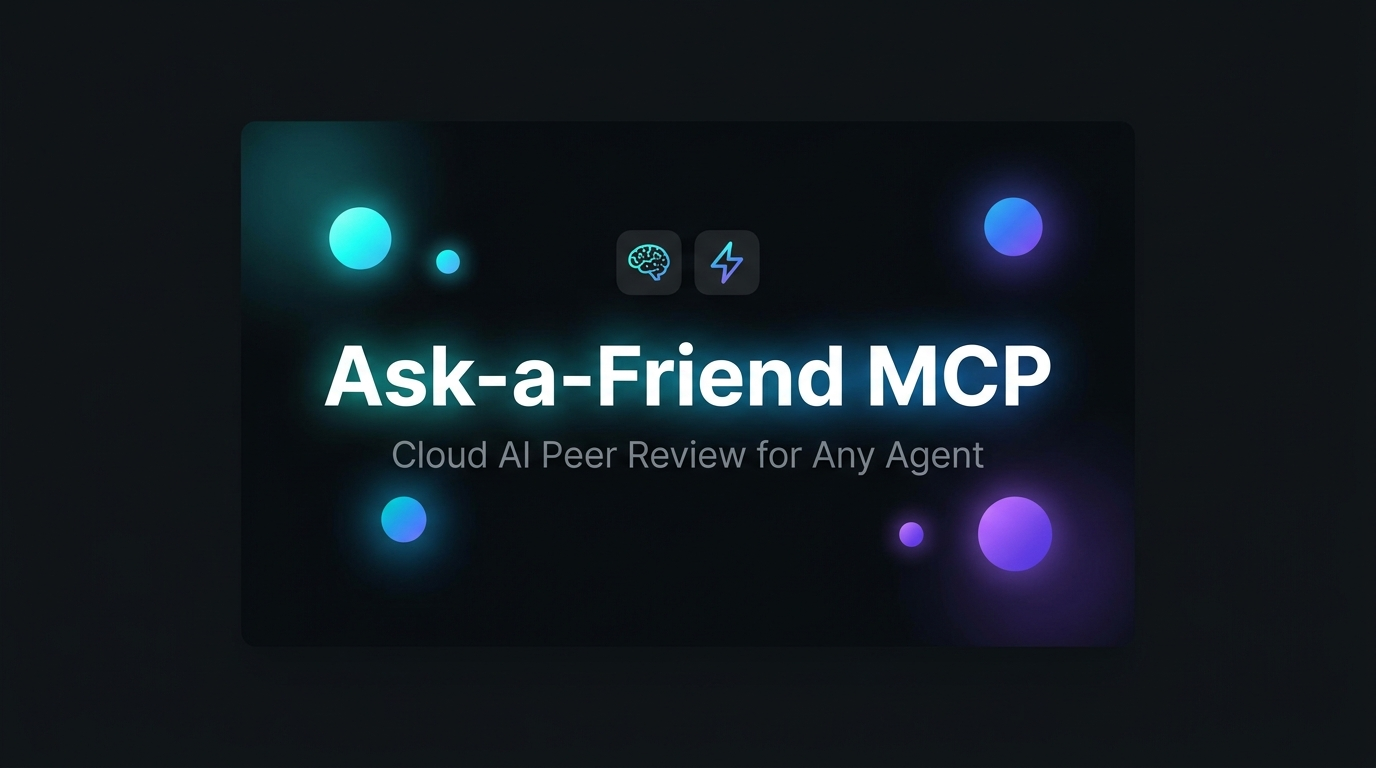
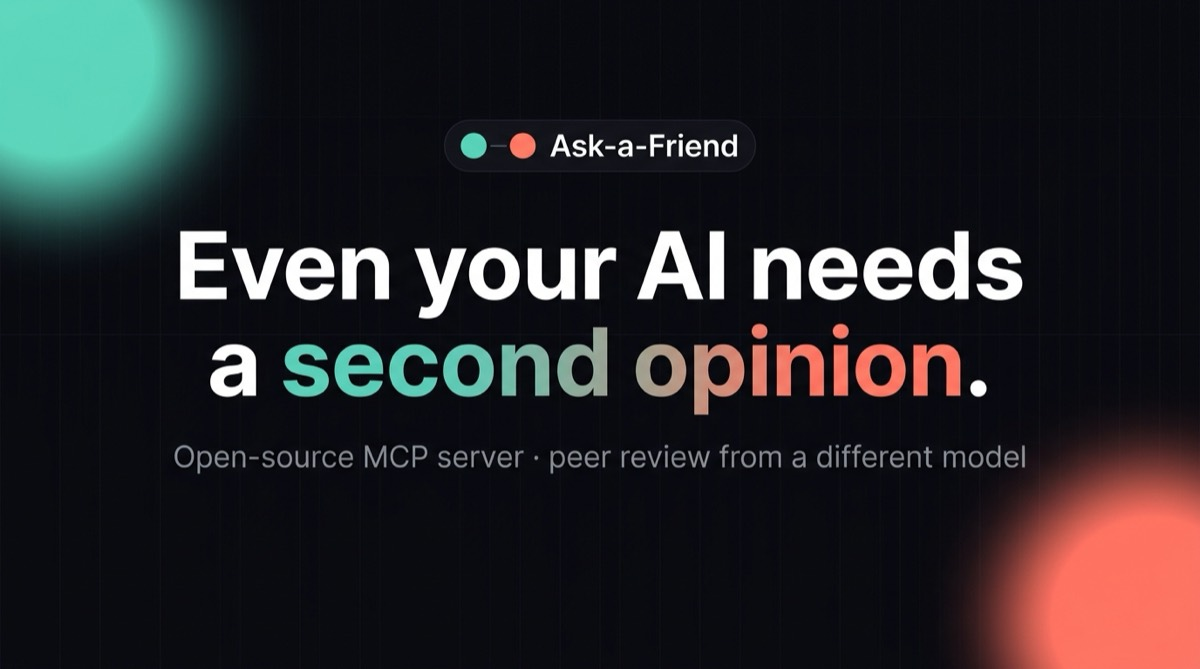
docs: align README and social card with the redesigned site

diff --git a/docs/index.html b/docs/index.html
@@ -36,6 +36,10 @@
   <meta property="og:site_name" content="Ask-a-Friend MCP">
   <meta property="og:locale" content="en_US">
   <meta property="og:image" content="https://mbettan.github.io/ask-a-friend-mcp/assets/og-image.jpg">
+  <meta property="og:image:width" content="1200">
+  <meta property="og:image:height" content="669">
+  <meta property="og:image:type" content="image/jpeg">
+  <meta property="og:image:alt" content="Ask-a-Friend — Even your AI needs a second opinion. Open-source MCP server for peer review from a different model.">
 
   <!-- Twitter Cards -->
   <meta name="twitter:card" content="summary_large_image">
@@ -43,6 +47,7 @@
   <meta name="twitter:title" content="Ask-a-Friend MCP — Cloud-Hosted AI Peer Review (Claude Opus 5.5 &amp; Gemini 3.8 Flash)">
   <meta name="twitter:description" content="Connect your AI agents to Claude Opus 5.5 (Adaptive High Thinking + Live Web Search) &amp; Gemini 3.8 Flash for scoped code reviews, security audits, and second opinions.">
   <meta name="twitter:image" content="https://mbettan.github.io/ask-a-friend-mcp/assets/og-image.jpg">
+  <meta name="twitter:image:alt" content="Ask-a-Friend — Even your AI needs a second opinion. Open-source MCP server for peer review from a different model.">
 
   <!-- Schema.org JSON-LD Structured Data for Google Search -->
   <script type="application/ld+json">

diff --git a/README.md b/README.md
@@ -1,11 +1,10 @@
 <p align="center">
-  <img src="https://em-content.zobj.net/source/apple/391/speech-balloon_1f4ac.png" width="120" alt="Ask-a-Friend MCP" />
+  <img src="docs/assets/og-image.jpg" alt="Ask-a-Friend — Even your AI needs a second opinion" width="720" />
 </p>
 
-<h1 align="center">Ask-a-Friend MCP</h1>
-
 <p align="center">
-  <strong>why get stuck when a specialized frontier friend can help — over MCP?</strong>
+  <strong>Your coding agent is confident. Confidently wrong, sometimes.</strong><br>
+  Give it a way to phone a friend.
 </p>
 
 <p align="center">
@@ -17,50 +16,86 @@
 </p>
 
 <p align="center">
-  <a href="#before--after">before/after</a> •
+  <a href="https://mbettan.github.io/ask-a-friend-mcp/">live demo</a> •
+  <a href="#whats-an-mcp">what's an MCP?</a> •
+  <a href="#why-bother">why bother</a> •
   <a href="#deploy">deploy</a> •
   <a href="#connect-clients">connect clients</a> •
   <a href="#what-you-get">what you get</a> •
-  <a href="#how-it-works">how it works</a> •
-  <a href="#vertex-ai-org-policies">org policies</a>
+  <a href="#how-it-works">how it works</a>
 </p>
 
 ---
 
-A cloud-hosted **Model Context Protocol (MCP)** server on **Google Cloud Run** that lets any AI agent (**Claude Web & Desktop**, **Claude Code CLI**, **ChatGPT**, **Cursor IDE**, **Gemini / Antigravity CLI**) phone a specialized frontier model on **Google Vertex AI (`global`)** — powered by **Anthropic Claude Opus 5.5 (`opus-5-5`, 128K output, Adaptive High Thinking, Real-Time Web Search, 1M Context)** and **Google Gemini 3.8 Flash (`HIGH` Thinking + Google Search Grounding)** — with built-in PII scrubbing, prompt injection defense, and SHA-256 + ephemeral caching.
+Ask-a-Friend is an open-source **MCP server** you host on your own Google Cloud project. It gives
+your AI agent one extra tool: `ask_a_friend`.
+
+When your agent calls it, the question goes to a **completely different frontier model** — one that
+hasn't seen the conversation, doesn't share the first model's assumptions, and has no reason to
+agree with it. The friend reviews the work, says what it actually thinks, and the answer comes back
+inline. One tool call.
+
+Works with **Claude Web & Desktop**, **Claude Code CLI**, **ChatGPT**, **Cursor IDE**, and
+**Gemini / Antigravity CLI**. Friends are **Claude Opus 5.5** and **Gemini 3.8 Flash**, running on
+**Vertex AI (`global`)**, with PII scrubbed before anything leaves your server.
 
 ---
 
-## Before / after
+## What's an MCP?
+
+Skip this if you already know.
+
+Your AI agent is smart but sealed in a box. It can write about your database, but it can't query it.
+It can describe an API call, but it can't make one. Every capability beyond "generate text" has to be
+handed to it from outside.
+
+**Model Context Protocol** is the standard for handing things over. Think of it like a USB port. Before
+USB, every device needed its own proprietary connector. Now there's one shape, and anything that fits
+just works — no driver hunting, no per-app integration.
+
+MCP is the same idea for AI tools. Write a server once, and Claude, ChatGPT, Cursor, and Gemini can
+all use it. No custom glue for each one.
+
+> **MCP is just the plug shape. Ask-a-Friend is what you plug in.**
+
+---
+
+## Why bother
+
+Your agent is one model. One training run, one set of habits, one set of blind spots. When it
+misses something, asking it again doesn't help — you get the same blind spot back, phrased
+differently. That's not review. That's an echo chamber.
 
 <table>
 <tr>
 <td width="50%">
 
-### 🗣 Raw single-agent loop (vulnerable & tunnel-visioned)
+### 🗣 One model, on its own
 
-> Agent retries the same bug in a single-model echo chamber or sends raw credentials and unredacted code straight to external APIs:
+> The agent retries the same bug against its own assumptions, and ships raw credentials and
+> unredacted code straight to external APIs:
 > * 🔓 Raw secrets (`sk-ant-...`, `AKIA...`, emails) sent in plain text
 > * 🧠 Single-model blind spots on subtle concurrency, security, or tax/math edge cases
-> * 📅 Stale training cutoffs without live CVE or SDK doc verification
-> * 💸 Identical prompts re-sent over the wire during iterative debugging
+> * 📅 Stale training cutoffs, with no live CVE or SDK doc verification
+> * 💸 Identical prompts re-sent over the wire on every debug iteration
 
 </td>
 <td width="50%">
 
-### 🔒 Secure `ask-a-friend` MCP call (sanitized, live-grounded, & cached)
+### 🤝 One `ask_a_friend` call
 
-> A dedicated FastMCP proxy scrubs sensitive identifiers pre-transit, grounds answers with live web search, and caches deterministically:
-> * 🛡 **Pre-transit PII scrubbing** replaces secrets with placeholders (`__PII_REDACTED_1__`) and rehydrates locally
-> * 🔬 **Adaptive High Thinking + Live Web Search** (`opus-5-5` & `gemini-3.8-flash`)
-> * ⚡ **Dual-layer caching** (`~1ms` SHA-256 local cache + `~90%` cheaper Vertex AI Ephemeral Prompt Cache)
-> * 🔄 **Resilient multi-provider failover** across Anthropic and Google GenAI
+> A FastMCP proxy scrubs sensitive identifiers before transit, grounds the answer in live web
+> search, and caches deterministically:
+> * 🛡 **Pre-transit PII scrubbing** swaps secrets for placeholders (`__PII_REDACTED_1__`) and rehydrates locally
+> * 🔬 **Adaptive High Thinking + live web search** (`opus-5-5` & `gemini-3.8-flash`)
+> * ⚡ **Dual-layer caching** (`~1ms` SHA-256 local cache + `~90%` cheaper Vertex AI ephemeral prompt cache)
+> * 🔄 **Multi-provider failover** across Anthropic and Google GenAI
 
 </td>
 </tr>
 </table>
 
-**Cross-model peer review. Live web grounding. Zero credential leakage.**
+**A different model. Grounded in today's web. Your secrets never leave the building.**
 
 ```
 ┌────────────────────────────────────────────────────────┐
@@ -76,9 +111,7 @@ A cloud-hosted **Model Context Protocol (MCP)** server on **Google Cloud Run** t
 
 ## Deploy
 
-### 1-Command Google Cloud Run Deployment
-
-Deploy your own private, serverless MCP instance on Google Cloud Run in one command:
+It's your server, your Google Cloud project, your bill. Nothing routes through anyone else.
 
 ```bash
 chmod +x deploy.sh
@@ -92,14 +125,21 @@ chmod +x deploy.sh
 4. Generates and stores your `MCP_API_KEY` (`aaf_...`) in Google Cloud Secret Manager (`mcp-api-key`).
 5. Builds and deploys the pure MCP server container (`docs/` excluded via `.gcloudignore` / `.dockerignore`) to Cloud Run.
 
-Retrieve your generated `MCP_API_KEY` anytime:
+Grab your generated `MCP_API_KEY` anytime:
+
 ```bash
 gcloud secrets versions access latest --secret=mcp-api-key --project=<YOUR_GCP_PROJECT_ID>
 ```
 
+> [!IMPORTANT]
+> `MCP_API_KEY` is **required** in `api_key` and `oauth2` auth modes — the server refuses to boot
+> without it rather than starting up unauthenticated. See [`.env.example`](.env.example).
+
 ---
 
 ## Connect clients
+
+Swap `your-cloud-run-url.run.app` for the URL `deploy.sh` prints at the end.
 
 ### 1. Claude Custom Connector (Claude Web & Claude Desktop UI)
 1. Open **Settings &rarr; Connectors &rarr; Add custom connector**.
@@ -148,7 +188,7 @@ Verify inside Claude Code with `claude mcp list` or `/mcp`.
 
 ## Use
 
-Once connected, your agent can consult a friend through natural language or explicit MCP tool invocations:
+Once connected, just ask. Your agent picks the tool up on its own, or you can name it explicitly:
 
 ```text
 "Ask a friend (opus-5-5) to audit this JWT verification middleware for timing leaks and recent CVEs."
@@ -160,7 +200,7 @@ Once connected, your agent can consult a friend through natural language or expl
 
 ## What you get
 
-### Default Model Capabilities (Enabled Out-of-the-Box)
+### The friends (enabled out-of-the-box)
 
 | Model Alias | Vertex AI Target (`global`) | Enabled Default Features | Max Output |
 |---|---|---|---|
@@ -169,7 +209,7 @@ Once connected, your agent can consult a friend through natural language or expl
 | `gemini-3.8-flash` / `gemini-pro` | `gemini-3.8-flash` | **`HIGH` Thinking (`thinking_level="HIGH"`)**, **Google Search Grounding (`googleSearch`)**, **URL Context (`urlContext`)**, automatic provider failover | `65,536` tokens |
 | `gemini-3.5-flash-lite` | `gemini-3.5-flash-lite` | Ultra-low-latency analytical inference & lightweight verification | `65,536` tokens |
 
-### Architecture & Pipeline Components
+### What's inside
 
 | Component | Module | Description |
 |---|---|---|
@@ -203,11 +243,11 @@ sequenceDiagram
     Scrubber-->>Client: Clean, exact, sanitized peer review response
 ```
 
-1. **Authenticated MCP/REST Request:** Your agent calls `ask_a_friend` over Streamable HTTP (`/mcp`), SSE (`/sse`), or OpenAPI REST (`/api/v1/ask`).
-2. **Inbound Security & PII Scrubbing:** [`SecurityInterceptor`](src/interceptor.py) blocks prompt-override attacks while [`scrub_pii`](scripts/pii.py) replaces sensitive keys and emails with safe tokens (`__PII_REDACTED_1__`).
-3. **Cache & Intelligent Routing:** [`ask_a_friend`](scripts/ask_friend.py) checks the SHA-256 cache first; on a miss, it routes to `opus-5-5` (with automatic failover to `gemini-3.8-flash`).
-4. **Live-Grounded Vertex AI Inference:** `claude-opus-5-5` executes with **Adaptive Thinking (`effort="high"`)**, **Ephemeral Prompt Caching**, **1M Context**, and **Server-Side Web Search (`web_search_20250305`)**.
-5. **Local Rehydration:** Placeholders are restored to your original variable/identifier names before returning the response to your agent.
+1. **Check who's asking.** Your agent calls `ask_a_friend` over Streamable HTTP (`/mcp`), SSE (`/sse`), or OpenAPI REST (`/api/v1/ask`). [`SecurityInterceptor`](src/interceptor.py) blocks prompt-override attacks on the way in.
+2. **Scrub your secrets.** [`scrub_pii`](scripts/pii.py) replaces sensitive keys and emails with safe tokens (`__PII_REDACTED_1__`) *before* anything leaves your server.
+3. **Check if we've asked this before.** [`ask_a_friend`](scripts/ask_friend.py) hits the SHA-256 cache first; on a miss, it routes to `opus-5-5` (with automatic failover to `gemini-3.8-flash`).
+4. **The friend thinks it over.** `claude-opus-5-5` runs with **Adaptive Thinking (`effort="high"`)**, **Ephemeral Prompt Caching**, **1M Context**, and **server-side web search (`web_search_20250305`)**.
+5. **Put your secrets back.** Placeholders are restored to your original variable and identifier names locally, then the answer goes back to your agent.
 
 ---
 
